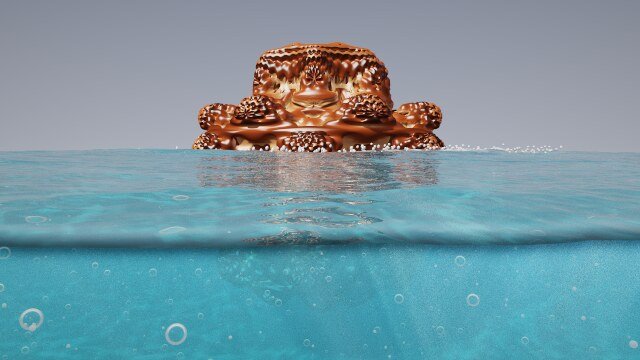
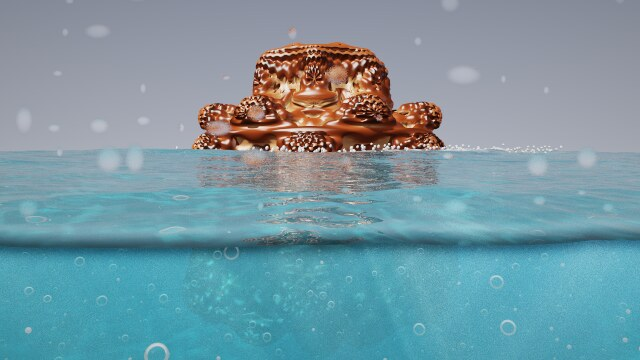
Water: flat camera lens and drops on the lens
A flat front glass bends rays leaving it into the water, so the view
under the water magnifies like with underwater cameras (Flat lens).
Water drops cling to the glass above the water near the surface, each a
small lens showing the view upside down, sliding down with the clock;
out of focus they are soft bright blobs, in focus sharp drops with dark
rims and highlights (Lens drops, Drop focus).

diff --git a/crates/rmb-core/src/render/cpu.rs b/crates/rmb-core/src/render/cpu.rs
@@ -64,6 +64,10 @@ impl MediumFrame {
                 },
             ],
             lens: m.lens.max(0.0),
+            flat_lens: m.flat_lens,
+            lens_drops: m.lens_drops.clamp(0.0, 1.0),
+            drop_focus: m.drop_focus.clamp(0.0, 1.0),
+            time: m.time,
         };
         mf.wet_lights = lights.iter().map(|li| li.point.is_some_and(|lp| mf.depth(prog, lp) > 0.0)).collect();
         Some(mf)
@@ -116,8 +120,67 @@ pub struct MediumFrame {
     pub scatter: f64,
     /// Floating drops: bubbles, particles.
     pub drops: [DropKind; 2],
-    /// Size of the camera's front glass (`WaterMedium::lens`).
+    /// Size of the camera's front glass (`WaterMedium::lens`), whether it is flat, the lens
+    /// drops and the clock.
     pub lens: f64,
+    pub flat_lens: bool,
+    pub lens_drops: f64,
+    pub drop_focus: f64,
+    pub time: f64,
+}
+
+/// A water drop on the camera's glass at the screen position (`u` = sx × aspect, `v` = sy)
+/// at time `time` (march.wgsl `lens_drop`): drops sit in a grid of `LENS_DROP_CELL`, `share`
+/// of the cells hold one, each column of cells slides down at its own speed; sizes from tiny
+/// to large (few), each with its own width to height. Returns the position in the drop (x,
+/// y; length below 1).
+pub fn lens_drop(u: f64, v: f64, time: f64, share: f64) -> Option<(f64, f64)> {
+    if share <= 0.0 {
+        return None;
+    }
+    let s = LENS_DROP_CELL;
+    let ci = (u / s).floor() as i32;
+    for di in -1..=1 {
+        let i = ci + di;
+        let vv = v + time * (0.02 + 0.08 * super::hash3(i, 0, 71) as f64);
+        let cj = (vv / s).floor() as i32;
+        for dj in -1..=1 {
+            let j = cj + dj;
+            let h = |n: i32| super::hash3(i, j, n) as f64;
+            if h(72) >= share {
+                continue;
+            }
+            let r = s * (0.1 + 0.35 * h(73) * h(73));
+            let cx = (i as f64 + 0.5 + (h(74) - 0.5) * 0.5) * s;
+            let cy = (j as f64 + 0.5 + (h(75) - 0.5) * 0.5) * s;
+            let wide = 0.75 + 0.6 * h(76);
+            let (dx, dy) = ((u - cx) / (r * wide), (vv - cy) / (r / wide));
+            if dx * dx + dy * dy < 1.0 {
+                return Some((dx, dy));
+            }
+        }
+    }
+    None
+}
+
+/// Grid of the lens drops in screen units (march.wgsl `LENS_DROP_CELL`).
+pub const LENS_DROP_CELL: f64 = 0.22;
+
+/// A lens drop at (`dx`, `dy`) in it with `focus` (march.wgsl `lens_drop_look`): the share of
+/// samples that look through the drop (soft edge out of focus), the brightness factor
+/// (brighter when blurred; in focus a dark rim, heavier at the bottom) and the highlight
+/// (in focus, up left).
+pub fn lens_drop_look(dx: f64, dy: f64, focus: f64) -> (f64, f64, f64) {
+    let r = (dx * dx + dy * dy).sqrt();
+    let soft = 0.08 + 0.52 * (1.0 - focus);
+    let a = ((1.0 - r) / soft).clamp(0.0, 1.0);
+    let x = ((r * r - 0.5) / 0.5).clamp(0.0, 1.0);
+    let rim = x * x * (3.0 - 2.0 * x) * (0.6 + 0.4 * (-dy).clamp(0.0, 1.0));
+    let (hx, hy) = (dx + 0.35, dy - 0.35);
+    // Out of focus like bokeh: brighter inside, a slightly darker ring.
+    let ring = ((r - 0.6) / 0.4).clamp(0.0, 1.0);
+    let blurred = 0.5 * (1.0 - r * r) - 0.2 * ring * ring * (3.0 - 2.0 * ring);
+    (a * a * (3.0 - 2.0 * a), 1.0 + (1.0 - focus) * blurred - 0.6 * focus * rim, 0.5 * focus * (-(hx * hx + hy * hy) / 0.03).exp())
 }
 
 /// The camera's front glass at the waterline (march.wgsl `waterline`): the point of the glass
@@ -1309,6 +1372,7 @@ impl<'a> Shader<'a> {
         // The ray starts on the glass (it may be on the other side of the surface than the
         // camera's center) and first leaves the surface when it is near.
         let mut line = 1.0;
+        let mut glint = 0.0;
         let mut in_water = false;
         let mut leave = false;
         if let Some(m) = &self.medium {
@@ -1317,6 +1381,29 @@ impl<'a> Shader<'a> {
             in_water = depth > 0.0;
             leave = depth.abs() < m.lens;
             line = waterline_shade(depth, m.lens);
+            if in_water && m.flat_lens {
+                // A flat glass: the ray bends into the water (the view under it magnifies).
+                if let Some(t) = crate::compose::refract_dir(d, -cam.forward, 1.0 / m.ior) {
+                    d = t;
+                }
+            } else if !in_water && m.lens_drops > 0.0 && m.lens > 0.0 {
+                // Drops on the glass above the water, fewer higher up: each a tiny lens that
+                // shows the view turned around.
+                let share = m.lens_drops * (1.0 + depth / (m.lens * 5.0)).clamp(0.0, 1.0);
+                if let Some((dx, dy)) = lens_drop(sx * fr.aspect, sy, m.time, share) {
+                    // Out of focus: a soft edge (a share of the samples look past the drop)
+                    // and a blurred view through it.
+                    let (u1, u2, u3) = (rng.next_f64(), rng.next_f64(), rng.next_f64());
+                    let (alpha, f, g) = lens_drop_look(dx, dy, m.drop_focus);
+                    if u1 < alpha {
+                        let blur = 0.05 * (1.0 - m.drop_focus) * u2.sqrt();
+                        let ang = u3 * std::f64::consts::TAU;
+                        d = (d - cam.right * (dx * 0.12 + blur * ang.cos()) - cam.up * (dy * 0.12 + blur * ang.sin())).normalize();
+                        line *= f;
+                        glint = g;
+                    }
+                }
+            }
         }
         ev.water_mode = if in_water { crate::fractal::WATER_INSIDE } else { crate::fractal::WATER_SOLID };
         let first = self.trace(ev, Seg { o, d, t0, max_t: sc.march.max_distance, t_base: 0.0, sx, sy, inside: false, glass, env: false, water: in_water, leave }, &mut rng);
@@ -1430,7 +1517,9 @@ impl<'a> Shader<'a> {
         }
         ev.water_mode = crate::fractal::WATER_SOLID;
         let (depth, hit) = first.surface.map_or((0.0, 0.0), |s| (s.t, 1.0));
-        Sample { color: c.map(|v| v * line), albedo: first.albedo, normal: first.normal, depth, hit }
+        let sky = sc.lighting.sky_color.map(|v| v as f64 * sc.lighting.ambient);
+        let color = [0, 1, 2].map(|k| c[k] * line + glint * sky[k]);
+        Sample { color, albedo: first.albedo, normal: first.normal, depth, hit }
     }
 
     /// Direction of the path after surface `s` (`inside`: the ray travels inside glass), the
@@ -2186,6 +2275,17 @@ mod tests {
         assert!(sh.water_depth(top) < 0.0 && sh.water_depth(bottom) > 0.0);
         assert!(waterline_shade(0.0, m.lens) < 0.5 && (waterline_shade(m.lens, m.lens) - 1.0).abs() < 1e-6);
         assert_eq!(waterline_shade(0.0, 0.0), 1.0);
+        // A flat glass narrows the view into the water (magnifies) by the refraction index.
+        let d = (cam.forward + cam.right * 0.3).normalize();
+        let t = crate::compose::refract_dir(d, -cam.forward, 1.0 / 1.33).unwrap();
+        let sin = |v: V3| (1.0 - v.dot(cam.forward).powi(2)).sqrt();
+        assert!((sin(d) / sin(t) - 1.33).abs() < 1e-9);
+        // Lens drops: none without a share, some with, and they slide down with time.
+        assert!((0..400).all(|i| lens_drop(i as f64 * 0.01 - 2.0, 0.3, 0.0, 0.0).is_none()));
+        let wet = |time: f64| (0..4000).filter(|i| lens_drop((i % 80) as f64 * 0.025 - 1.0, (i / 80) as f64 * 0.04 - 1.0, time, 0.5).is_some()).count();
+        assert!(wet(0.0) > 100);
+        let at = |time: f64| (0..4000).map(|i| lens_drop((i % 80) as f64 * 0.025 - 1.0, (i / 80) as f64 * 0.04 - 1.0, time, 0.5).is_some()).collect::<Vec<_>>();
+        assert_ne!(at(0.0), at(3.0));
     }
 
     #[test]

diff --git a/crates/rmb-core/src/compose.rs b/crates/rmb-core/src/compose.rs
@@ -93,6 +93,9 @@ pub struct ModelRef {
 }
 
 /// Primitive shapes in their own coordinates (z is up).
+// The water carries its medium settings; a scene has at most a few primitives, so the size
+// does not matter and the type stays Copy.
+#[allow(clippy::large_enum_variant)]
 #[derive(Clone, Copy, Debug, PartialEq, Serialize, Deserialize)]
 pub enum Primitive {
     /// The ground: everything below z = 0 is solid.
@@ -300,11 +303,21 @@ pub struct WaterMedium {
     /// the picture splits into the view above and below the water, with a dark line where
     /// the water clings to the glass (0 = a point: no split).
     pub lens: f64,
+    /// The camera's front glass is flat: rays bend where they leave it into the water, so
+    /// everything under the water looks 1.33 times larger (like most underwater cameras);
+    /// off: a dome (no bending).
+    pub flat_lens: bool,
+    /// Water drops on the part of the glass above the water near the surface (0 = none, 1 =
+    /// many); they run down the glass with the clock.
+    pub lens_drops: f64,
+    /// Focus of the lens drops: 0 = soft, blurred blobs (drops on a camera lens are out of
+    /// focus), 1 = sharp drops with dark rims (like a window in focus).
+    pub drop_focus: f64,
 }
 
 impl Default for WaterMedium {
     fn default() -> Self {
-        WaterMedium { see_through: false, ior: 1.33, color: [0.03, 0.22, 0.3], filter: [0.12, 0.6, 0.78], visibility: 3.0, murk: 0.25, depth_dark: 1.0, caustics: 1.0, caustic_sharpness: 0.5, light_rays: 0.4, bubbles: 0.2, bubble_size: 0.012, bubble_speed: 0.25, particles: 0.15, particle_size: 0.0025, time: 0.0, lens: 0.2 }
+        WaterMedium { see_through: false, ior: 1.33, color: [0.03, 0.22, 0.3], filter: [0.12, 0.6, 0.78], visibility: 3.0, murk: 0.25, depth_dark: 1.0, caustics: 1.0, caustic_sharpness: 0.5, light_rays: 0.4, bubbles: 0.2, bubble_size: 0.012, bubble_speed: 0.25, particles: 0.15, particle_size: 0.0025, time: 0.0, lens: 0.2, flat_lens: true, lens_drops: 0.4, drop_focus: 0.0 }
     }
 }
 

diff --git a/crates/rmb-gpu/src/renderer.rs b/crates/rmb-gpu/src/renderer.rs
@@ -154,7 +154,7 @@ struct Uniforms {
     grid2: [f32; 4],
     tile: [u32; 4],
     dof2: [f32; 4],
-    wmed: [[f32; 4]; 8],
+    wmed: [[f32; 4]; 9],
 }
 
 /// Splits an f64 into the high and low f32 of a double-float.
@@ -166,12 +166,12 @@ fn split_dd(v: f64) -> (f32, f32) {
 /// The water medium (march.wgsl `u.wmed`): extinction and refraction index, depth fade and
 /// the lights under the water (bits), its color, its up axis; caustics, their step, light
 /// rays, scattering; bubbles and particles (cell, share, radii), their rise.
-fn medium_gpu(prog: &Program, lights: &[rmb_core::render::FrameLight]) -> [[f32; 4]; 8] {
-    let Some(m) = rmb_core::render::cpu::MediumFrame::new(prog, lights) else { return [[0.0; 4]; 8] };
+fn medium_gpu(prog: &Program, lights: &[rmb_core::render::FrameLight]) -> [[f32; 4]; 9] {
+    let Some(m) = rmb_core::render::cpu::MediumFrame::new(prog, lights) else { return [[0.0; 4]; 9] };
     let wet = m.wet_lights.iter().enumerate().filter(|(_, w)| **w).fold(0u32, |b, (i, _)| b | 1 << i);
     let f = |a: [f64; 3], w: f32| [a[0] as f32, a[1] as f32, a[2] as f32, w];
     let drop = |g: &rmb_core::render::cpu::DropKind| [g.cell as f32, g.share as f32, g.r_min as f32, g.r_max as f32];
-    [f(m.ext, m.ior as f32), f(m.fade, wet as f32), f(m.color, 0.0), f(m.up.to_array(), 0.0), [m.caustics as f32, m.caustic_step as f32, m.rays as f32, m.scatter as f32], drop(&m.drops[0]), drop(&m.drops[1]), [m.drops[0].rise as f32, m.drops[1].rise as f32, m.lens as f32, 0.0]]
+    [f(m.ext, m.ior as f32), f(m.fade, wet as f32), f(m.color, m.time as f32), f(m.up.to_array(), m.lens_drops as f32), [m.caustics as f32, m.caustic_step as f32, m.rays as f32, m.scatter as f32], drop(&m.drops[0]), drop(&m.drops[1]), [m.drops[0].rise as f32, m.drops[1].rise as f32, m.lens as f32, if m.flat_lens { 1.0 } else { 0.0 }], [m.drop_focus as f32, 0.0, 0.0, 0.0]]
 }
 
 /// A composed object (march.wgsl `Obj`).

diff --git a/crates/rmb-app/src/formulas_panel.rs b/crates/rmb-app/src/formulas_panel.rs
@@ -697,6 +697,9 @@ fn water_medium_params(ui: &mut Ui, m: &mut rmb_core::compose::WaterMedium) {
         widgets::slider_log(ui, "Particle size", "Size of the particles (scene units)", &mut m.particle_size, 0.0001..=0.1, d.particle_size);
         widgets::slider(ui, "Time", "The moment of the bubbles and particles: another value shows them elsewhere in a still image (animations add one per second)", &mut m.time, -1000.0..=1000.0, 0.0);
         widgets::slider_log(ui, "Lens size", "Size of the camera's front glass (scene units): with the camera at the surface, the water line crosses the glass and the picture splits into the views above and below the water, with a dark line where the water clings to the glass (0 = no split)", &mut m.lens, 0.0..=10.0, d.lens);
+        widgets::checkbox(ui, "Flat lens", "The camera's front glass is flat, like most underwater cameras: rays bend where they leave it into the water, so everything under the water looks 1.33 times larger (and the half below the waterline is magnified). Off: a dome glass (no bending)", &mut m.flat_lens);
+        widgets::slider(ui, "Lens drops", "Water drops on the camera's glass above the water, more near the surface (within five lens sizes); each shows the view upside down, and they run down the glass in animations (0 = none, 1 = many)", &mut m.lens_drops, 0.0..=1.0, d.lens_drops);
+        widgets::slider(ui, "Drop focus", "0 = soft, blurred blobs (drops on a camera lens are out of focus); 1 = sharp drops with dark rims and highlights, like rain on a window in focus", &mut m.drop_focus, 0.0..=1.0, d.drop_focus);
     });
 }
 

diff --git a/docs/manual/07-composition.md b/docs/manual/07-composition.md
@@ -208,7 +208,10 @@ light. Both move in animations.
 With the camera right at the surface, the waterline crosses the camera's front glass (**Lens
 size**): the picture splits into the view above and below the water, along the waves, with a
 dark line where the water clings to the glass. The waves move the line up and down in
-animations.
+animations. A **flat lens** magnifies the part under the water, as with real underwater
+cameras, and drops cling to the glass above the water: each one a tiny lens that shows the
+view upside down, sliding down the glass in animations. Drops on a camera lens are out of
+focus (soft, bright blobs); **Drop focus** makes them sharp, like rain on a window.
 
 ![Half above, half below the water](images/water-waterline.jpg)
 
@@ -233,6 +236,9 @@ The **Underwater** section of the water object holds the settings:
 | Particle size | Size of the particles (scene units). | 0.0025 |
 | Time | The moment of the bubbles and particles; animations add one per second. | 0 |
 | Lens size | Size of the camera's front glass: with the camera at the surface the picture splits into the views above and below the water (0 = no split). | 0.2 |
+| Flat lens | The front glass is flat, like most underwater cameras: everything under the water looks 1.33 times larger. Off: a dome glass. | on |
+| Lens drops | Water drops on the glass above the water near the surface, each showing the view upside down; they run down in animations (0 = none, 1 = many). | 0.4 |
+| Drop focus | 0 = soft, bright blobs (drops on a camera lens are out of focus); 1 = sharp drops with dark rims and highlights, like rain on a window. | 0 |
 
 !!! note
     Only the first see-through water of a scene is a medium you can dive into; further

diff --git a/AGENT.md b/AGENT.md
@@ -409,7 +409,14 @@ cargo clippy -j 8 --workspace --all-targets
   numbers. `WaterMedium::time` advances 1 per second in animations (phase `o{k}.medium`).
 - Waterline: the ray starts on the camera's front glass (`waterline_point`, `lens` wide),
   in the water when that point is below the open sea; near the surface the first march
-  leaves it; `waterline_shade` darkens the meniscus.
+  leaves it; `waterline_shade` darkens the meniscus. `flat_lens`: rays starting in the water
+  refract at the glass (normal = -forward, 1/ior) before the first trace. Lens drops
+  (`lens_drop`, `lens_drop_shade`): screen-space grid (`LENS_DROP_CELL`, 3 × 3 cells, each
+  column sliding down by its own speed × `time`) on glass points above the water, share
+  fading over five lens sizes of height; the drop bends the ray (inverted view), darkens
+  the rim and adds a sky-colored highlight after the bounce loop. `lens_drop_look` with
+  `drop_focus`: out of focus a soft edge (three random numbers per sample inside a drop:
+  look through it by the edge share, blur jitter) and a bokeh-like brighter center.
 - `Primitive::Seabed` (`SEABED_KIND` 10, `seabed_height` / `seabed_distance`, GPU same):
   4 octaves of value noise + warped sine ripples; bound by the measured slope
   (`seabed_steepness`, test `seabed_stays_a_distance_bound`).

diff --git a/CHANGELOG.md b/CHANGELOG.md
@@ -22,6 +22,9 @@ and the release workflow uses it as the release notes.
   Caustics, Caustic sharpness, Light rays).
 - Water: rising air bubbles and floating particles in the water; with the camera at the
   surface the picture splits into the views above and below the water (Lens size).
+- Water: flat camera lens (the view under the water magnifies, like underwater cameras) and
+  water drops on the lens above the water that run down in animations, soft and out of focus
+  or sharp like rain on a window (Drop focus).
 - New object Seabed: an ocean floor with rolling hills and sand ripples (goes below the
   water when the scene has one).
 - Ray marching: new option "Step minus detail" (Mandelbulb3D's "step sub DEstop"), imported.
